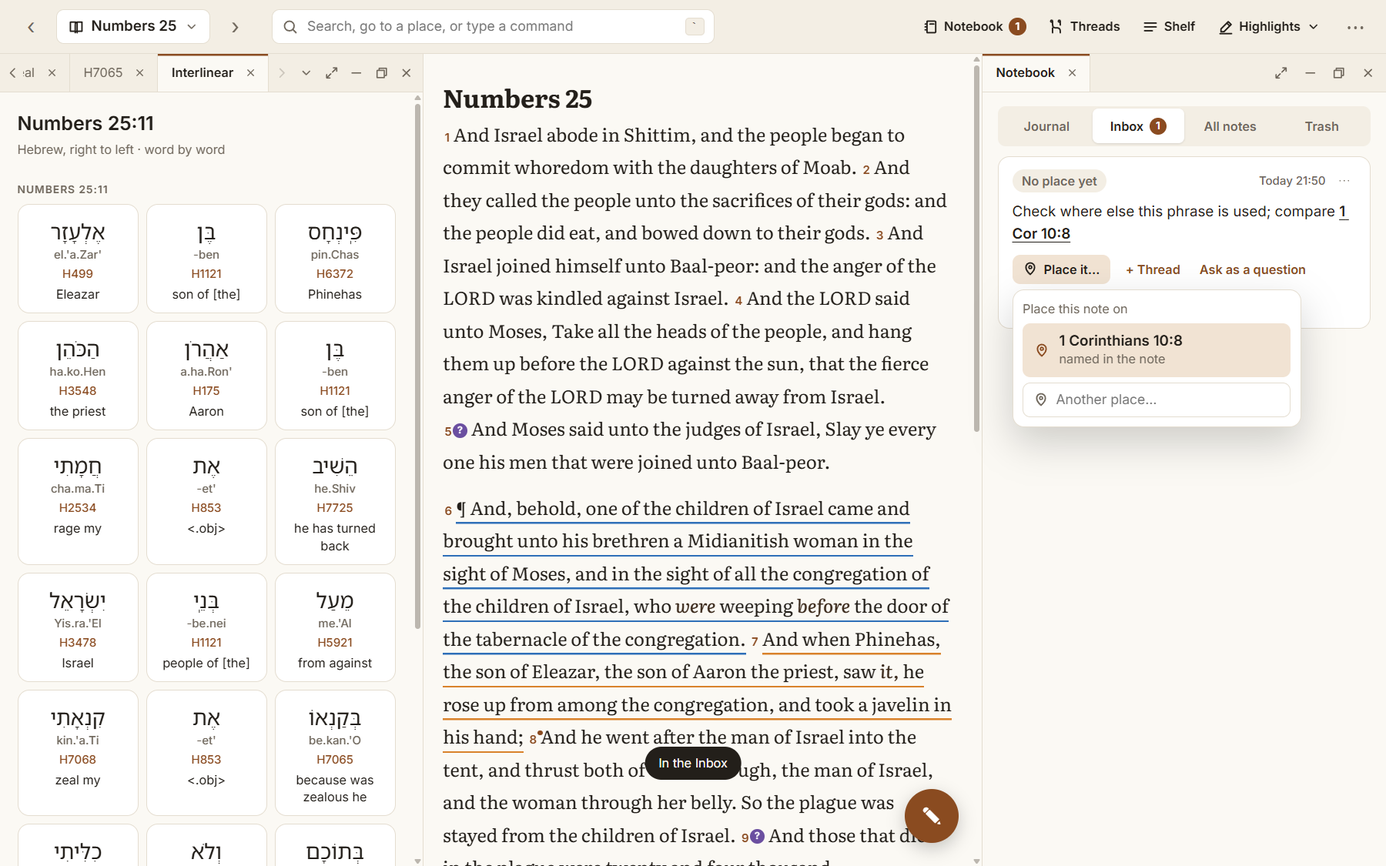
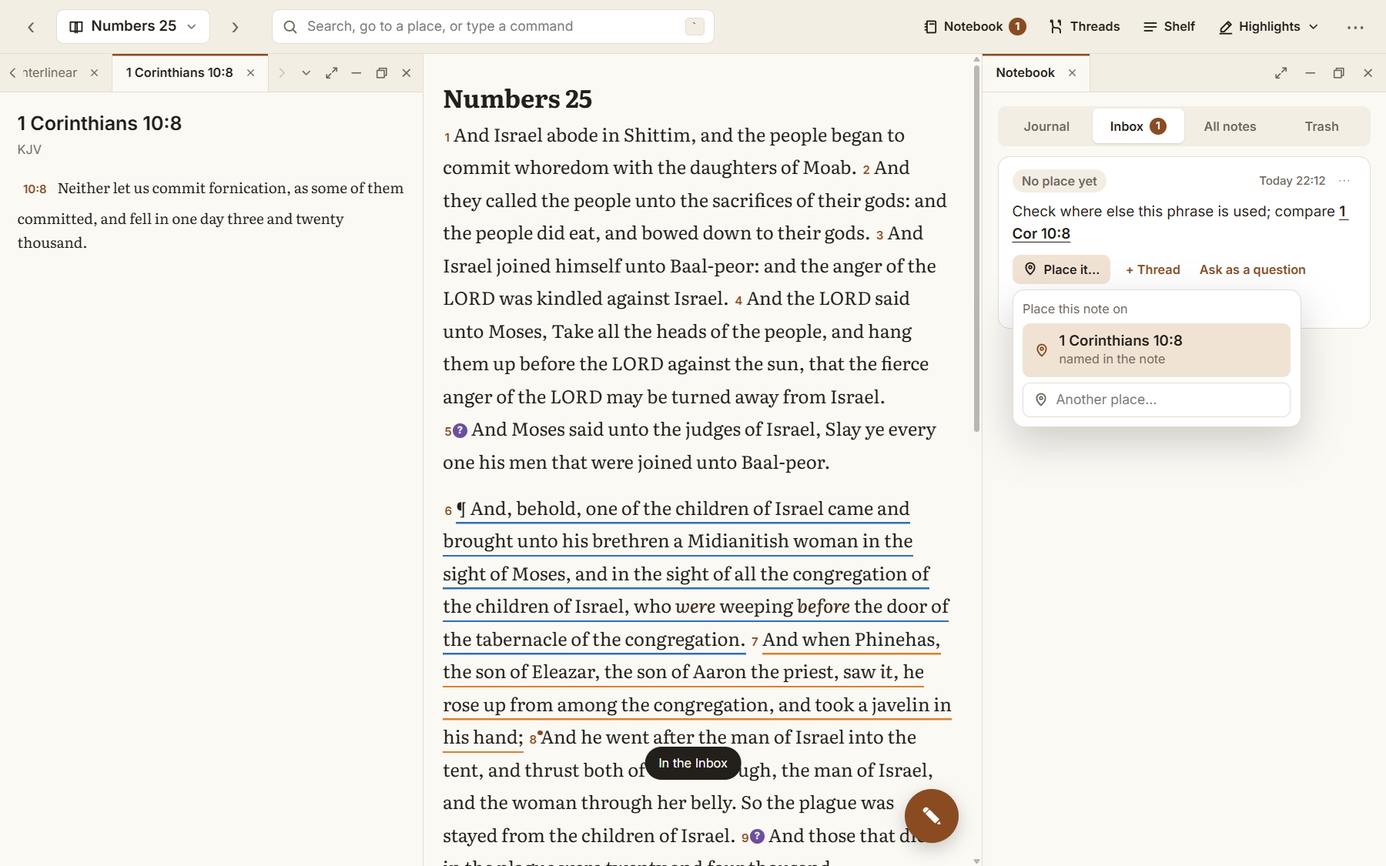
Phase 2b plan; step 1: cards open on a click, hover cards off by default
- docs/PLAN-phase2b.md: the desktop is finished before the phone (accepted
  2026-11-03); PLAN.md points to it
- Hover cards are off by default and the setting is kept between runs
  (More, or `hover on|off|refs`)
- A reference in a note opens its verse as a card on a click (Go to, Open
  as a tab; Ctrl+click goes straight there)
- Verse and word cards have Open as a tab
- desk.mjs: 7 new checks (66 of 66); the WebKit hover test and the speed
  measure turn hover on first
- phase2-results.md section 11: the evening's notes and the Python app's
  documents run

diff --git a/ui/src/main.ts b/ui/src/main.ts
@@ -16,8 +16,8 @@ import { openSheet, closeSheet, showCard, hideCard, toast, compact } from './she
 import { perf, afterPaint, record } from './perf';
 import { app, here, type At } from './app';
 import { layers } from './layers';
-import { h, icon, popMenu, sizeClass, closeMenu } from './ui';
-import { dock, initPanes, openPlace, openInterlinear, openKeys, openHelp, openMarked, openShelf, openThread, openThreads, openToday, openUses, threadChooser } from './panes';
+import { h, hoverMode, icon, popMenu, setHover, sizeClass, closeMenu } from './ui';
+import { dock, initPanes, openPassage, openPlace, openInterlinear, openStrong, openKeys, openHelp, openMarked, openShelf, openThread, openThreads, openToday, openUses, threadChooser } from './panes';
 import { countInbox, notebookBadge, openNotebook, refreshNotebook, writeInNotebook } from './notebook';
 import { attachCommandField, loadThreads } from './command';
 import { parse, runLine, written } from './actions';
@@ -164,6 +164,7 @@ function lexiconBody(w: WordView, card = false): HTMLElement {
     inter.onclick = () => { closeSheet(); const [, cv] = w.anchor.split('.'); openInterlinear(`${w.anchor.slice(0, 3)} ${cv}`, w.reference); };
     acts.append(uses, inter);
     b.append(acts);
+    if (!compact()) b.append(actions(['Open as a tab'], () => { closeSheet(); openStrong(lx.strong); }));
     for (const n of w.notes) b.append(noteCard(n.anchor === w.anchor ? w.reference : `${lx.strong} everywhere`, n.text));
     const note = h('button', 'btn soft wide', `Note on ${lx.strong} everywhere`);
     note.onclick = () => writeNote(note, { anchor: lx.strong, label: `${lx.strong} everywhere` }, 'note');
@@ -203,9 +204,10 @@ function verseBody(v: VerseView, card = false): HTMLElement {
     b.append(t);
   }
   const at: At = { anchor: v.anchor, label: v.reference };
-  b.append(actions(compact() ? ['Note', 'Question', 'Thread', 'Copy'] : ['Note', 'Question', 'Thread', 'Copy', 'Notes & lookup'], (a, el) => {
+  b.append(actions(compact() ? ['Note', 'Question', 'Thread', 'Copy'] : ['Note', 'Question', 'Thread', 'Copy', 'Notes & lookup', 'Open as a tab'], (a, el) => {
     if (a === 'Copy') copy(`${v.text} (${v.reference} KJV)`);
     else if (a === 'Notes & lookup') { closeSheet(); openPlace(at.anchor, at.label); }
+    else if (a === 'Open as a tab') { closeSheet(); openPassage([at.anchor.replace('.', ' ')], 'KJV', at.label); }
     else if (a === 'Thread') addToThread(el, at);
     else writeNote(el, at, a === 'Note' ? 'note' : 'question');
   }));
@@ -437,12 +439,11 @@ async function openVerse(v: number, el: HTMLElement, at: number) {
 }
 
 let hoverSeq = 0;
-const hoverOff = () => document.documentElement.dataset.hover === 'off';
 const selector = new Selector(reader, scroller, {
   tapWord: (k, el, at) => openWord(k, el, at),
   tapVerse: (v, el, at) => openVerse(v, el, at),
   hoverWord: async (k, el) => {
-    if (hoverOff() || document.documentElement.dataset.hover === 'refs') return;
+    if (hoverMode() !== 'on') return;
     const seq = ++hoverSeq, t0 = performance.now(), d = drawn!;
     const { data } = await api.word(d.chapter.code, d.chapter.chapter, d.v[k], d.i[k]);
     if (seq !== hoverSeq) return;
@@ -451,7 +452,7 @@ const selector = new Selector(reader, scroller, {
     record('hover-card', performance.now() - t0, { word: data.text });
   },
   hoverVerse: async (v, el) => {
-    if (hoverOff()) return;
+    if (hoverMode() !== 'on') return;
     const seq = ++hoverSeq, d = drawn!;
     const { data } = await api.verse(d.chapter.code, d.chapter.chapter, v);
     if (seq === hoverSeq) showCard(verseBody(data, true), el.getBoundingClientRect());
@@ -717,7 +718,7 @@ function settings(from: HTMLElement) {
   sz.append(minus, pct, plus, reset);
   b.append(sz);
   b.append(h('div', 'label', 'Hover cards'));
-  b.append(segmented(['on', 'refs', 'off'], document.documentElement.dataset.hover || 'on', m => { document.documentElement.dataset.hover = m; }));
+  b.append(segmented(['off', 'refs', 'on'], hoverMode(), setHover));
   b.append(h('div', 'label', 'Theme'));
   b.append(segmented(['system', 'light', 'dark', 'eink'], document.documentElement.dataset.theme || 'system', t => {
     if (t === 'system') delete document.documentElement.dataset.theme; else document.documentElement.dataset.theme = t;
@@ -841,6 +842,7 @@ async function start() {
   try {
     const t = localStorage.getItem('wb.theme');
     if (t && t !== 'system') document.documentElement.dataset.theme = t;
+    document.documentElement.dataset.hover = localStorage.getItem('wb.hover') || 'off';
     setSize(+(localStorage.getItem(SIZE_STORE) || 100));
   } catch { /* defaults */ }
   initPanes($('dock'));

diff --git a/ui/src/panes.ts b/ui/src/panes.ts
@@ -4,8 +4,8 @@ import { wb } from './api';
 import { app, book, goTo, here } from './app';
 import { Dock, type Pane, type Side } from './dock';
 import { layers } from './layers';
-import { hideCard, showCard, toast } from './sheets';
-import { button, h, icon, linkedText, placePill, popMenu } from './ui';
+import { closeSheet, compact, hideCard, openSheet, sheetOpen, showCard, toast } from './sheets';
+import { button, h, hoverMode, icon, linkedText, placePill, popMenu } from './ui';
 import { placeMenu, remove as removeNote } from './notebook';
 
 export let dock: Dock;
@@ -128,25 +128,43 @@ export function threadChooser(from: HTMLElement, pick: (name: string) => void) {
   input.focus();
 }
 
-// ---- hover cards on references written in notes (a mouse only; `hover off` turns them off) --------------------------
+// ---- references written in notes: a click opens the verse as a card; hover cards only when turned on ------------------
+function refBody(d: any): HTMLElement {
+  const body = h('div', 'verse-view');
+  body.append(h('div', 'card-head', `${d.label} · ${d.version}`));
+  for (const v of d.verses || []) {
+    const p = h('p', 'scripture');
+    if ((d.verses || []).length > 1) p.append(h('span', 'vref', `${v.ref.split(':').pop()} `));
+    p.append(v.text);
+    body.append(p);
+  }
+  if (d.more) body.append(h('p', 'muted small', `and ${d.more} more verses`));
+  return body;
+}
+
+// The verse, verbatim, beside the reference, with Go to and Open as a tab. Ctrl+click goes straight there.
+export async function refCard(ref: string, a: HTMLElement, e?: MouseEvent) {
+  if (e?.ctrlKey || e?.metaKey) return goTo(ref);
+  hideCard();
+  const d = await wb(['preview', ref, '--json']).catch(() => null);
+  if (!d) return goTo(ref);
+  const body = refBody(d);
+  const acts = h('div', 'acts');
+  acts.append(button('act', `Go to ${d.label}`, () => { closeSheet(); goTo(ref); }));
+  if (!compact()) acts.append(button('act', 'Open as a tab', () => { closeSheet(); openPassage([ref], 'KJV', d.label); }));
+  body.append(acts);
+  openSheet(body, a);
+}
+
 export function refHover(a: HTMLElement, ref: string) {
   let timer = 0, seq = 0;
   a.addEventListener('pointerenter', e => {
-    if (e.pointerType !== 'mouse' || document.documentElement.dataset.hover === 'off') return;
+    if (e.pointerType !== 'mouse' || hoverMode() === 'off' || sheetOpen()) return;
     const my = ++seq;
     timer = window.setTimeout(async () => {
       const d = await wb(['preview', ref, '--json']).catch(() => null);
-      if (!d || my !== seq || !a.isConnected || !a.matches(':hover')) return;
-      const body = h('div', 'verse-view');
-      body.append(h('div', 'card-head', `${d.label} · ${d.version}`));
-      for (const v of d.verses || []) {
-        const p = h('p', 'scripture');
-        if ((d.verses || []).length > 1) p.append(h('span', 'vref', `${v.ref.split(':').pop()} `));
-        p.append(v.text);
-        body.append(p);
-      }
-      if (d.more) body.append(h('p', 'muted small', `and ${d.more} more verses`));
-      showCard(body, a.getBoundingClientRect());
+      if (!d || my !== seq || !a.isConnected || !a.matches(':hover') || sheetOpen()) return;
+      showCard(refBody(d), a.getBoundingClientRect());
     }, 280);
   });
   a.addEventListener('pointerleave', () => { seq++; clearTimeout(timer); setTimeout(() => { if (!document.querySelector('.hovercard:hover')) hideCard(); }, 150); });
@@ -621,7 +639,7 @@ async function threadNotes(t: any, into: HTMLElement) {
     for (const a of n.also || []) top.append(placePill(a.label, () => goTo(a.anchor)));
     top.append(h('span', 'grow'), h('span', 'nb-time', n.time));
     const p = h('p', 'nb-text');
-    p.append(linkedText(n.text, n.refs, ref => goTo(ref), refHover));
+    p.append(linkedText(n.text, n.refs, refCard, refHover));
     const acts = h('div', 'nb-acts');
     acts.append(button('link-btn', 'Edit', () => {
       const ta = h('textarea', 'field nb-edit') as HTMLTextAreaElement;

diff --git a/ui/src/ui.ts b/ui/src/ui.ts
@@ -67,7 +67,7 @@ export function placePill(label: string, go?: () => void): HTMLElement {
 
 // Text with verse references made into links (positions from wb-core's find_refs, counted in characters).
 export interface Found { start: number; end: number; ref: string; hash: string }
-export function linkedText(text: string, refs: Found[] | undefined, go: (ref: string) => void, hover?: (a: HTMLElement, ref: string) => void): DocumentFragment {
+export function linkedText(text: string, refs: Found[] | undefined, go: (ref: string, a: HTMLElement, e: MouseEvent) => void, hover?: (a: HTMLElement, ref: string) => void): DocumentFragment {
   const f = document.createDocumentFragment();
   const chars = [...text];
   let at = 0;
@@ -76,13 +76,21 @@ export function linkedText(text: string, refs: Found[] | undefined, go: (ref: st
     f.append(chars.slice(at, r.start).join(''));
     const a = h('a', 'ref', chars.slice(r.start, r.end).join(''));
     a.href = r.hash;
-    a.onclick = e => { e.preventDefault(); go(r.ref); };
+    a.onclick = e => { e.preventDefault(); go(r.ref, a, e); };
     if (hover) hover(a, r.ref);
     f.append(a);
     at = r.end;
   }
   f.append(chars.slice(at).join(''));
   return f;
+}
+
+// Hover cards: 'off' (the default; a click opens a card, as a tap does on a phone), 'refs' (only references in notes)
+// or 'on'. Kept between runs.
+export const hoverMode = () => document.documentElement.dataset.hover || 'off';
+export function setHover(mode: string) {
+  document.documentElement.dataset.hover = mode;
+  try { localStorage.setItem('wb.hover', mode); } catch { /* this run only */ }
 }
 
 export const sizeClass = () => {

diff --git a/ui/src/actions.ts b/ui/src/actions.ts
@@ -9,6 +9,7 @@ import {
   dock, frontResults, jumpTo, openBdb, openCount, openDefine, openFind, openForms, openHelp, openInterlinear, openKeys, openLesson, openLexiconc,
   openMarked, openNear, openPlace, openPassage, openSearch, openShelf, openStrong, openThread, openThreads, openToday, openUses,
 } from './panes';
+import { setHover } from './ui';
 
 // The last write, so `undo` can take it back.
 type Undo = { kind: 'note'; id: string } | { kind: 'hl'; record: unknown } | { kind: 'trail'; id: string } | { kind: 'thread'; name: string; anchor: string } | { kind: 'jot'; id: string };
@@ -180,7 +181,7 @@ export async function perform(a: any, line: string): Promise<string> {
     case 'findpage': app.findInChapter(a.q); return a.q ? `Finding “${a.q}” in this chapter` : 'Find in this chapter';
     case 'panes': return dock.describe().map(p => p.title).join(' · ') || 'No panes open';
     case 'pane': return paneAction(a);
-    case 'hover': document.documentElement.dataset.hover = a.mode; return `Hover cards: ${a.mode}`;
+    case 'hover': setHover(a.mode); return `Hover cards: ${a.mode}`;
     case 'copy': {
       if (a.action === 'format') { localStorage.setItem('wb.copy', JSON.stringify({ format: a.format, short: a.short })); return `Copies are laid out as ${a.format}${a.short ? ', short' : ''}`; }
       const saved = (() => { try { return JSON.parse(localStorage.getItem('wb.copy') || '{}'); } catch { return {}; } })();

diff --git a/ui/src/notebook.ts b/ui/src/notebook.ts
@@ -5,7 +5,7 @@
 // moves the reader.
 import { wb } from './api';
 import { app, goTo, here, type At } from './app';
-import { dock, refHover, openThread, threadChooser } from './panes';
+import { dock, refCard, refHover, openThread, threadChooser } from './panes';
 import type { Pane } from './dock';
 import { toast } from './sheets';
 import { button, h, icon, linkedText, placePill, popMenu, type Found } from './ui';
@@ -180,7 +180,7 @@ function entryCard(e: Entry, inInbox = false): HTMLElement {
   more.onclick = () => entryMenu(more, e, c);
   top.append(time, more);
   const p = h('p', 'nb-text');
-  p.append(linkedText(e.text, e.refs, ref => goTo(ref), refHover));
+  p.append(linkedText(e.text, e.refs, refCard, refHover));
   c.append(top, p);
   const chips = threadChips(e);
   if (chips.length) { const row = h('div', 'nb-threads'); row.append(...chips); c.append(row); }

diff --git a/ui/src/select.ts b/ui/src/select.ts
@@ -2,7 +2,7 @@
 //
 //   touch   tap a word → word sheet; tap a verse number → verse sheet; press and hold → a selection with two handles
 //           that snap to whole words, across verses; keep the finger down after the hold and drag to extend it
-//   mouse   hover a word or verse number → hover card; click → the same sheet (a popover at wide sizes);
+//   mouse   click a word or verse number → the same sheet (a popover at wide sizes); hover cards when `hover on`;
 //           press and drag → a selection, then the color bar
 //
 // Scrolling is left to the web view (touch-action: pan-y) until a hold starts a selection; then touchmove is cancelled.

diff --git a/ui/tests/reader.spec.ts b/ui/tests/reader.spec.ts
@@ -119,6 +119,7 @@ test('press and hold, drag across verses, then a handle', async ({ page }, info)
 test('mouse: hover card and the color bar', async ({ page }, info) => {
   test.skip(info.project.name !== 'webkit-desktop', 'desktop');
   await ready(page);
+  await page.evaluate(() => { document.documentElement.dataset.hover = 'on'; });   // off by default: a click opens the card
   const z = await wordBox(page, 11, 24);
   await page.mouse.move(z.x + 5, z.y + z.height / 2);
   await expect(page.locator('.hovercard')).toBeVisible();

diff --git a/docs/PLAN-phase2b.md b/docs/PLAN-phase2b.md
@@ -1,0 +1,120 @@
+# Plan: the next phase — finish the desktop (phase 2b)
+
+Status: accepted, 2026-11-03 ("Desktop first, as planned"): phase 2b comes before the phone, with the defaults below
+(documents brought forward, the phase 2 check runs to 2026-11-09, the dock decided by the spike, no third translation
+yet). Step 1 is built (2026-11-03; [phase2-results.md](phase2-results.md) section 11).
+
+## 1. Where things stand
+
+- Phase 2 is built and its check is running: a week of daily study on the real folder, started 2026-11-02 about 23:15,
+  so it would end about **2026-11-09**. Day 2's 22 findings are listed in [phase2-results.md](phase2-results.md) section
+  10: the eleven bugs and the four decisions are built (fc88cda); seven items wait for design (16–22).
+- **The check's rule was broken once, for a good reason.** On 2026-11-03 at 18:16 the Python app built two documents
+  from the Phinehas thread (`documents/thread-phinehas-script.json`, a Speaker Script in Word, and
+  `thread-phinehas-verse.json`, a verse deck, theme olivet). Documents are phase 5 in PLAN.md, so the Rust app cannot do
+  this yet. Until it can, "a week without the Python app" cannot pass as written.
+- **Since the day-2 list**, the person wrote two notes about the app:
+
+| Note | What it says | Where it goes |
+|---|---|---|
+| `7a77` (John 3:16, edited) | "need to make room for translation changes" (again; item 21) | Section 3, step 2 |
+| `564e` (Inbox) | Verses and words should be clickable, not hoverable; once clicked they should be tabs that can be dragged: "a replication of the dockview type system of dragging tabs" | Section 3, steps 1 and 4 |
+
+  `564e` reverses part of a phase 2 decision ("dockview-core was not used": fixed columns, no free tiling) and joins item
+  18 (dropping a tab at the top middle floats it; want fixed zones there; view presets).
+
+PLAN.md's next phase is 3, the phone. This plan proposes finishing the desktop first, because the person's notes are
+nearly all about the desktop, and the phone is built from the same UI: what is settled here (click instead of hover,
+cards as tabs, the Journal) is what the phone needs anyway.
+
+## 2. What phase 2b is for
+
+The desktop replaces the Python app for everything the person does day to day, **documents from a thread included**,
+and the open design items are designed and built. Then phase 3 (the phone) starts from a desktop that is finished.
+
+*Check:* a week of daily study, including building a lesson's documents from a thread, without opening the Python app.
+
+## 3. The work, in order
+
+Each step ends with `node measure/desk.mjs` passing (new checks added for it), the WebKit tests, `cargo test`, and the
+golden suite where a `wb` command changed; and a `wb` command for any new core action.
+
+### Step 1 — click, not hover (built 2026-11-03)
+
+- A verse number, a word and a reference in a note open their card **on a click** at every size, as a tap does on the
+  phone. Hover cards become a setting, off by default (`hover on|off` already exists for references in notes; it covers
+  the reader too).
+- One way to open a card on every device makes phase 3 simpler: the desktop and the phone share the cards.
+
+### Step 2 — translations (now; small to medium)
+
+- A translation switch in the reader: KJV or YLT (both in the database; `compare` already shows the YLT). The place,
+  marks and notes stay with the KJV's words; on the YLT the reader shows the text and its verse-level notes, and says
+  that highlights are drawn on the KJV. `wb text --version ylt` already gives the text; `version ylt` in the command
+  field switches the reader.
+- **Room for more:** the database's text tables keyed by version, so a third translation is data, not code. Which ones
+  (public-domain texts, or licensed ones) is the person's choice, each with its source and license checked before it is
+  built into `workbench.db` (the database stays read-only for the app; it is built by the Python repo's scripts).
+
+### Step 3 — reading plans pane (medium; item 20)
+
+wb-core and `wb` already have plans and progress. A pane: the plans there are, today's reading, start a preset plan,
+make one's own (books, days), change it later, and see what was read when (`reading/log.jsonl`). Plans keep the Python
+app's formats.
+
+### Step 4 — design round (FigCraft sheets, then the person's review)
+
+One round, in the same FigCraft file as the phase 2 sheets, covering:
+
+1. **The dock, dockview-style** (`564e`, item 18): a clicked card (verse, word, reference) opens as a tab; any tab can be
+   dragged to a column, to a top or bottom zone across the middle, split beside another, or floated; drop zones shown
+   while dragging. The sheets settle whether this is built on our dock (475 lines today) or on dockview-core; a spike of
+   each on the WebKit tests decides, since the phone must keep the "one pane as a screen" form.
+2. **View presets** (item 18; the layouts of phase 6 brought forward): "word study mode" and the like, saved and
+   chosen from the toolbar or `layout <name>`.
+3. **The Journal as a writing space** (item 16): a long page per day, references in it as links and hover/click cards,
+   Markdown as plain text in the file. The lesson half (the Notebook as a lesson's staging area) is drawn here and built
+   with documents (step 6).
+4. **The Shelf as folders** (item 17): sets as folders of places, notes, threads and panes; opening a set opens its tabs.
+5. **Settings and Customize** (item 19): which toolbar buttons show, the command bar, the reading font and italics (item
+   10's first try), hover on or off. Themes and more fonts (item 22) are drawn here, built with documents (they share
+   the themes).
+
+*Check:* the person accepts or changes each sheet before it is built.
+
+### Step 5 — build the design round
+
+In the order the person picks; the dock first unless they say otherwise, because cards as tabs touch every pane.
+
+### Step 6 — documents from a thread, brought forward from phase 5
+
+The two the person built on 2026-11-03, from the Phinehas thread with its notes (item 14 made thread notes for this):
+
+- **Speaker Script** (`.docx`, structure `script`) with `docx-rs`, from the Python app's `craft_plan.py` plans carried
+  over as they are.
+- **The verse deck**: first as PDF pages through Typst (spike (c) in `spikes/pdf`), since `.pptx` has no mature crate;
+  `.pptx` from a template per theme follows in phase 5 if the person still needs PowerPoint itself.
+- The present rule: after rendering, every verse in the file is checked against the database. The files in
+  `documents/` keep the Python app's format (`plan` and `file` fingerprints), so both apps see the same documents.
+- *Check:* the Phinehas Speaker Script and deck rebuilt and compared with the Craft-built ones, opened in real Word and
+  a PDF viewer.
+
+Lessons, the other structures and purpose presets, and `.pptx` stay in phase 5.
+
+## 4. What does not move
+
+- Phase 3 (the phone) follows phase 2b as planned; the sync remote is chosen at its start.
+- The iPad design (Medium) stays before phase 4.
+- Read aloud, recordings and the select box stay in phase 6.
+- The study folder rules: the scratch copy for tests, the real folder only through the person's own shortcut, the backup
+  script before any build that writes a new kind of file reaches it.
+
+## 5. Decisions for the person
+
+1. **Finish the desktop first (this plan), or go to the phone now** and leave steps 4–6 for later?
+2. **Documents now** (step 6), or keep using the Python app for documents until phase 5 and let the check allow that?
+3. **The phase 2 check:** let it run to 2026-11-09 as it is (findings listed by day, as on day 2) while steps 1–3 are
+   built and installed with `scripts/install-app.ps1`; or close it now and run phase 2b's check at the end.
+4. **The dock:** keep ours and extend it, or adopt dockview-core (decided by the spike in step 4.1 unless the person
+   already prefers one).
+5. **Translations beyond the YLT:** which, if any; each needs its source and license checked.

diff --git a/docs/phase2-results.md b/docs/phase2-results.md
@@ -7,7 +7,7 @@ study without the Python app) started on 2026-11-02 on the real folder**, on the
 
 | | Result |
 |---|---|
-| Desktop in the real app | `node measure/desk.mjs`: **54 of 54** checks (45 at the start of the check, 9 for its first findings), in WebView2, at 1440×900 and the other sizes |
+| Desktop in the real app | `node measure/desk.mjs`: **66 of 66** checks (45 at the start of the check, the rest for its findings), in WebView2, at 1440×900 and the other sizes |
 | WebKit (the iPhone and iPad engine) | `npm run test:webkit`: **12 of 12** (the 10 of phase 0 and 2 for the new shell) |
 | Rust tests | `cargo test`: **107** (97 before phase 2; 4 for the Notebook's `wb` commands, 4 for the command language; 2 for moving notes, questions and `read when`) |
 | The command language against the Python parser | **480 of 480** lines and **108 of 108** texts with references give the same answer |
@@ -290,6 +290,17 @@ Bugs, or things that got in the way of daily study.
 
 Notes counted twice above: `a022` (1 and 20), `0863` (10 and 22), `4ad9` (11 and 14). Every note from the day is in
 one of the tables.
+
+## 11. What the check found: day 2, evening (2026-11-03)
+
+Two notes about the app after the list above, and one use of the Python app: at 18:16 it built a Speaker Script and a
+verse deck from the Phinehas thread (`documents/`), which the Rust app cannot do yet. That and the open items led to
+phase 2b, the desktop finished before the phone ([PLAN-phase2b.md](PLAN-phase2b.md)).
+
+| # | Note | What it says | Where it goes |
+|---|---|---|---|
+| 23 | `564e` | Verses and words clickable, not hoverable; once clicked, tabs that can be dragged, as in dockview | **Built** (phase 2b step 1): hover cards are off by default and the setting is kept between runs (More ⋯, or `hover on`/`off`/`refs`); a click on a word or verse number opens its card as before, and now a click on a reference in a note does too (the verse verbatim, **Go to**, **Open as a tab**; Ctrl+click goes straight there). The verse and word cards have **Open as a tab** (a passage pane, the Strong's entry), and tabs drag between columns and float as before. The dockview-style dock is phase 2b step 4 |
+| 24 | `7a77` | Room for translation changes (item 21 again) | Phase 2b step 2 |
 
 The scratch copy still works for trying things out: `powershell -ExecutionPolicy Bypass -File scripts\watch-app.ps1`.
 To try a feature: open the Notebook and write a thought (Enter); place it from the Inbox; press backtick and type

diff --git a/docs/PLAN.md b/docs/PLAN.md
@@ -275,6 +275,9 @@ the start, with the size classes of section 3 in place, so the desktop phase doe
    Works on the real study folder directly (same files as the Python app; no sync needed on one machine). Documents
    stay with the Python app until phase 5. *Check:* a week of daily study on the desktop without opening the Python app.
    What the check finds is listed, each note under its phase, in [phase2-results.md](phase2-results.md) section 10.
+   **Phase 2b** (decided 2026-11-03): the desktop is finished before the phone: click cards, translations, a reading
+   plans pane, a design round (the dock, the Journal, the Shelf, settings), and documents from a thread brought forward
+   from phase 5. [PLAN-phase2b.md](PLAN-phase2b.md).
 3. **Phone.** The Compact layout from the phone sheets: tabs, tap cards, touch selection and the selection bar, sheets,
    the palette, the Notebook tab, the Study tab, "Back to …"; sync arrives (the remote is chosen here). *Check:* a week of
    reading and note taking in the phone-size window by finger on the touchscreen laptop, with the notes reaching the
